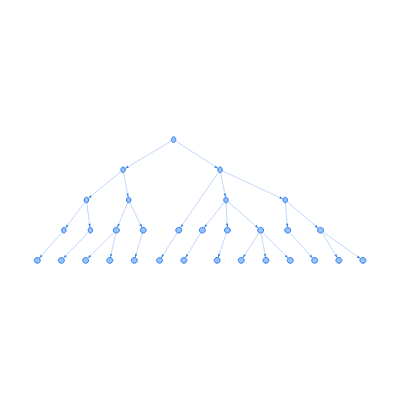
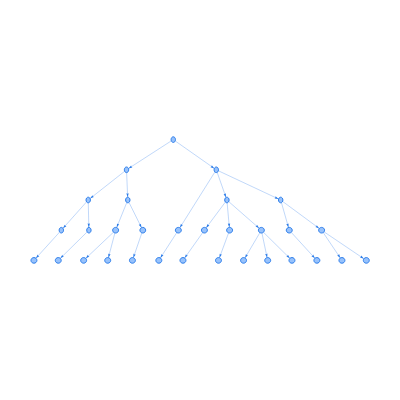
chore: update to a73237eb9f686228316faae49b52ffddfee89398 [ci skip]

diff --git a/esnext/esm/vis-network.js b/esnext/esm/vis-network.js
@@ -5,7 +5,7 @@
  * A dynamic, browser-based visualization library.
  *
  * @version 0.0.0-no-version
- * @date    2026-07-15T17:20:12.731Z
+ * @date    2026-07-16T02:08:34.428Z
  *
  * @copyright (c) 2011-2017 Almende B.V, http://almende.com
  * @copyright (c) 2017-2019 visjs contributors, https://github.com/visjs

diff --git a/esnext/esm/vis-network.min.js b/esnext/esm/vis-network.min.js
@@ -5,7 +5,7 @@
  * A dynamic, browser-based visualization library.
  *
  * @version 0.0.0-no-version
- * @date    2026-07-15T17:20:12.731Z
+ * @date    2026-07-16T02:08:34.428Z
  *
  * @copyright (c) 2011-2017 Almende B.V, http://almende.com
  * @copyright (c) 2017-2019 visjs contributors, https://github.com/visjs

diff --git a/esnext/umd/vis-network.js b/esnext/umd/vis-network.js
@@ -5,7 +5,7 @@
  * A dynamic, browser-based visualization library.
  *
  * @version 0.0.0-no-version
- * @date    2026-07-15T17:20:12.731Z
+ * @date    2026-07-16T02:08:34.428Z
  *
  * @copyright (c) 2011-2017 Almende B.V, http://almende.com
  * @copyright (c) 2017-2019 visjs contributors, https://github.com/visjs

diff --git a/esnext/umd/vis-network.min.js b/esnext/umd/vis-network.min.js
@@ -5,7 +5,7 @@
  * A dynamic, browser-based visualization library.
  *
  * @version 0.0.0-no-version
- * @date    2026-07-15T17:20:12.731Z
+ * @date    2026-07-16T02:08:34.428Z
  *
  * @copyright (c) 2011-2017 Almende B.V, http://almende.com
  * @copyright (c) 2017-2019 visjs contributors, https://github.com/visjs

diff --git a/peer/esm/vis-network.js b/peer/esm/vis-network.js
@@ -5,7 +5,7 @@
  * A dynamic, browser-based visualization library.
  *
  * @version 0.0.0-no-version
- * @date    2026-07-15T17:20:12.731Z
+ * @date    2026-07-16T02:08:34.428Z
  *
  * @copyright (c) 2011-2017 Almende B.V, http://almende.com
  * @copyright (c) 2017-2019 visjs contributors, https://github.com/visjs

diff --git a/peer/esm/vis-network.min.js b/peer/esm/vis-network.min.js
@@ -5,7 +5,7 @@
  * A dynamic, browser-based visualization library.
  *
  * @version 0.0.0-no-version
- * @date    2026-07-15T17:20:12.731Z
+ * @date    2026-07-16T02:08:34.428Z
  *
  * @copyright (c) 2011-2017 Almende B.V, http://almende.com
  * @copyright (c) 2017-2019 visjs contributors, https://github.com/visjs

diff --git a/peer/umd/vis-network.js b/peer/umd/vis-network.js
@@ -5,7 +5,7 @@
  * A dynamic, browser-based visualization library.
  *
  * @version 0.0.0-no-version
- * @date    2026-07-15T17:20:12.731Z
+ * @date    2026-07-16T02:08:34.428Z
  *
  * @copyright (c) 2011-2017 Almende B.V, http://almende.com
  * @copyright (c) 2017-2019 visjs contributors, https://github.com/visjs

diff --git a/peer/umd/vis-network.min.js b/peer/umd/vis-network.min.js
@@ -5,7 +5,7 @@
  * A dynamic, browser-based visualization library.
  *
  * @version 0.0.0-no-version
- * @date    2026-07-15T17:20:12.731Z
+ * @date    2026-07-16T02:08:34.428Z
  *
  * @copyright (c) 2011-2017 Almende B.V, http://almende.com
  * @copyright (c) 2017-2019 visjs contributors, https://github.com/visjs

diff --git a/standalone/esm/vis-network.js b/standalone/esm/vis-network.js
@@ -5,7 +5,7 @@
  * A dynamic, browser-based visualization library.
  *
  * @version 0.0.0-no-version
- * @date    2026-07-15T17:20:12.731Z
+ * @date    2026-07-16T02:08:34.428Z
  *
  * @copyright (c) 2011-2017 Almende B.V, http://almende.com
  * @copyright (c) 2017-2019 visjs contributors, https://github.com/visjs

diff --git a/standalone/esm/vis-network.min.js b/standalone/esm/vis-network.min.js
@@ -5,7 +5,7 @@
  * A dynamic, browser-based visualization library.
  *
  * @version 0.0.0-no-version
- * @date    2026-07-15T17:20:12.731Z
+ * @date    2026-07-16T02:08:34.428Z
  *
  * @copyright (c) 2011-2017 Almende B.V, http://almende.com
  * @copyright (c) 2017-2019 visjs contributors, https://github.com/visjs

diff --git a/standalone/umd/vis-network.js b/standalone/umd/vis-network.js
@@ -5,7 +5,7 @@
  * A dynamic, browser-based visualization library.
  *
  * @version 0.0.0-no-version
- * @date    2026-07-15T17:20:12.731Z
+ * @date    2026-07-16T02:08:34.428Z
  *
  * @copyright (c) 2011-2017 Almende B.V, http://almende.com
  * @copyright (c) 2017-2019 visjs contributors, https://github.com/visjs

diff --git a/standalone/umd/vis-network.min.js b/standalone/umd/vis-network.min.js
@@ -5,7 +5,7 @@
  * A dynamic, browser-based visualization library.
  *
  * @version 0.0.0-no-version
- * @date    2026-07-15T17:20:12.731Z
+ * @date    2026-07-16T02:08:34.428Z
  *
  * @copyright (c) 2011-2017 Almende B.V, http://almende.com
  * @copyright (c) 2017-2019 visjs contributors, https://github.com/visjs